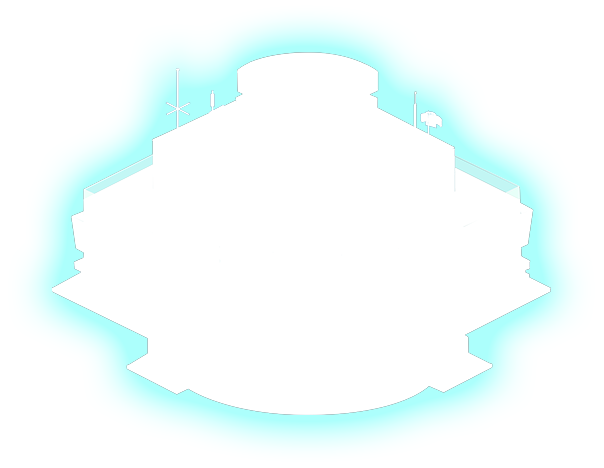
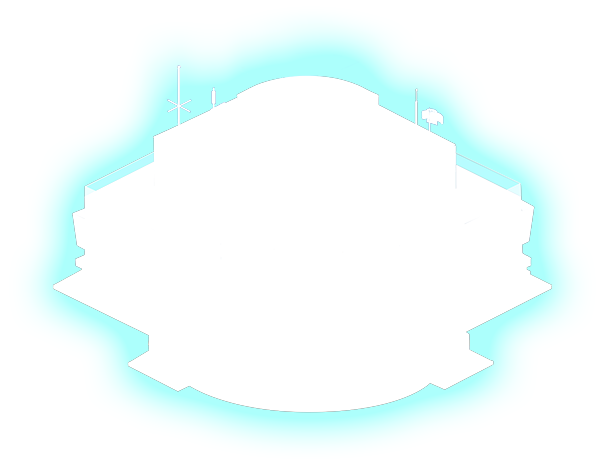
added money vault, 3 moll towers

diff --git a/src/buildings/config.ts b/src/buildings/config.ts
@@ -12,8 +12,12 @@ import musicTowerLevel3Img from './music/3.png';
 import musicTowerLevel3Stroke from './music/3-stroke.png';
 import arenaTowerLevel2Img from './arena/2.png';
 import arenaTowerLevel2Stroke from './arena/2-stroke.png';
+import mollTowerLevel1Img from './moll/1.png';
 import mollTowerLevel2Img from './moll/2.png';
+import mollTowerLevel3Img from './moll/3.png';
+import mollTowerLevel1Stroke from './moll/1-stroke.png';
 import mollTowerLevel2Stroke from './moll/2-stroke.png';
+import mollTowerLevel3Stroke from './moll/3-stroke.png';
 import eggTowerLevel3Img from './egg/3.png';
 import eggTowerLevel3Stroke from './egg/3-stroke.png';
 import libraryTowerLevel2Img from './library/2.png';
@@ -34,6 +38,8 @@ import airportLevel3Img from './airport/3.png';
 import airportLevel1Stroke from './airport/1-stroke.png';
 import airportLevel2Stroke from './airport/2-stroke.png';
 import airportLevel3Stroke from './airport/3-stroke.png';
+import moneyVaultLevel2Img from './money-vault/2.png';
+import moneyVaultLevel2Stroke from './money-vault/2-stroke.png';
 import { TowerLevel, TowersTypes } from '../effector/towers-progress/store';
 
 export class BuildingsService {
@@ -132,30 +138,28 @@ export class BuildingsService {
       coords: [4156, 1458],
       zIndex: 1,
       [TowerLevel.low]: {
-        // TODO: не настоящая картинка
-        img: musicTowerLevel1Img,
-        width: 1,
-        height: 2,
-        shadowImg: musicTowerLevel1Stroke,
+        img: mollTowerLevel1Img,
+        width: 605,
+        height: 425,
+        shadowImg: mollTowerLevel1Stroke,
         areaCoords: '128,57,418,291',
-        position: [42.2, 36.9],
+        position: [23.3, 50],
       },
       [TowerLevel.mid]: {
         img: mollTowerLevel2Img,
-        width: 604,
-        height: 468,
+        width: 605,
+        height: 466,
         shadowImg: mollTowerLevel2Stroke,
         areaCoords: '74,380,544,63',
         position: [22.56, 49.95],
       },
       [TowerLevel.high]: {
-        // TODO: не настоящая картинка
-        img: musicTowerLevel3Img,
-        width: 1,
-        height: 2,
-        shadowImg: musicTowerLevel3Stroke,
+        img: mollTowerLevel3Img,
+        width: 604,
+        height: 469,
+        shadowImg: mollTowerLevel3Stroke,
         areaCoords: '84,118,319,659',
-        position: [40.8, 37.4],
+        position: [22.56, 49.95],
       },
     },
     [TowersTypes.EGG]: {
@@ -394,6 +398,35 @@ export class BuildingsService {
         shadowImg: airportLevel2Stroke,
         areaCoords: '595,126,90,476',
         position: [19.7, 28.4],
+      },
+      [TowerLevel.high]: {
+        img: airportLevel3Img,
+        width: 573,
+        height: 449,
+        shadowImg: airportLevel3Stroke,
+        areaCoords: '595,126,90,476',
+        position: [18.9, 28.3],
+      },
+    },
+    [TowersTypes.MONEY_VAULT]: {
+      info: 'info',
+      coords: [5079, 1441],
+      zIndex: 1,
+      [TowerLevel.low]: {
+        img: airportLevel1Img,
+        width: 572,
+        height: 398,
+        shadowImg: airportLevel1Stroke,
+        areaCoords: '510,47,70,345',
+        position: [20, 28.5],
+      },
+      [TowerLevel.mid]: {
+        img: moneyVaultLevel2Img,
+        width: 584,
+        height: 606,
+        shadowImg: moneyVaultLevel2Stroke,
+        areaCoords: '103,107,483,511',
+        position: [20.4, 61.4],
       },
       [TowerLevel.high]: {
         img: airportLevel3Img,

diff --git a/src/effector/towers-progress/store.ts b/src/effector/towers-progress/store.ts
@@ -17,12 +17,13 @@ export enum TowersTypes {
   TV = 'tv',
   STADIUM = 'stadium',
   AIRPORT = 'airport',
+  MONEY_VAULT = 'moneyVault',
 }
 const initState: TowersProgressStoreType = {
   [TowersTypes.MAIN_TOWER]: TowerLevel.high,
   [TowersTypes.MUSIC]: TowerLevel.high,
   [TowersTypes.ARENA]: TowerLevel.mid,
-  [TowersTypes.MOLL]: TowerLevel.mid,
+  [TowersTypes.MOLL]: TowerLevel.high,
   [TowersTypes.EGG]: TowerLevel.high,
   [TowersTypes.LIBRARY]: TowerLevel.mid,
   [TowersTypes.OBSERVATORY]: TowerLevel.mid,
@@ -31,6 +32,7 @@ const initState: TowersProgressStoreType = {
   [TowersTypes.TV]: TowerLevel.mid,
   [TowersTypes.STADIUM]: TowerLevel.mid,
   [TowersTypes.AIRPORT]: TowerLevel.high,
+  [TowersTypes.MONEY_VAULT]: TowerLevel.mid,
 };
 export const TowersProgressStore = TowersProgressDomain.store<
   TowersProgressStoreType
